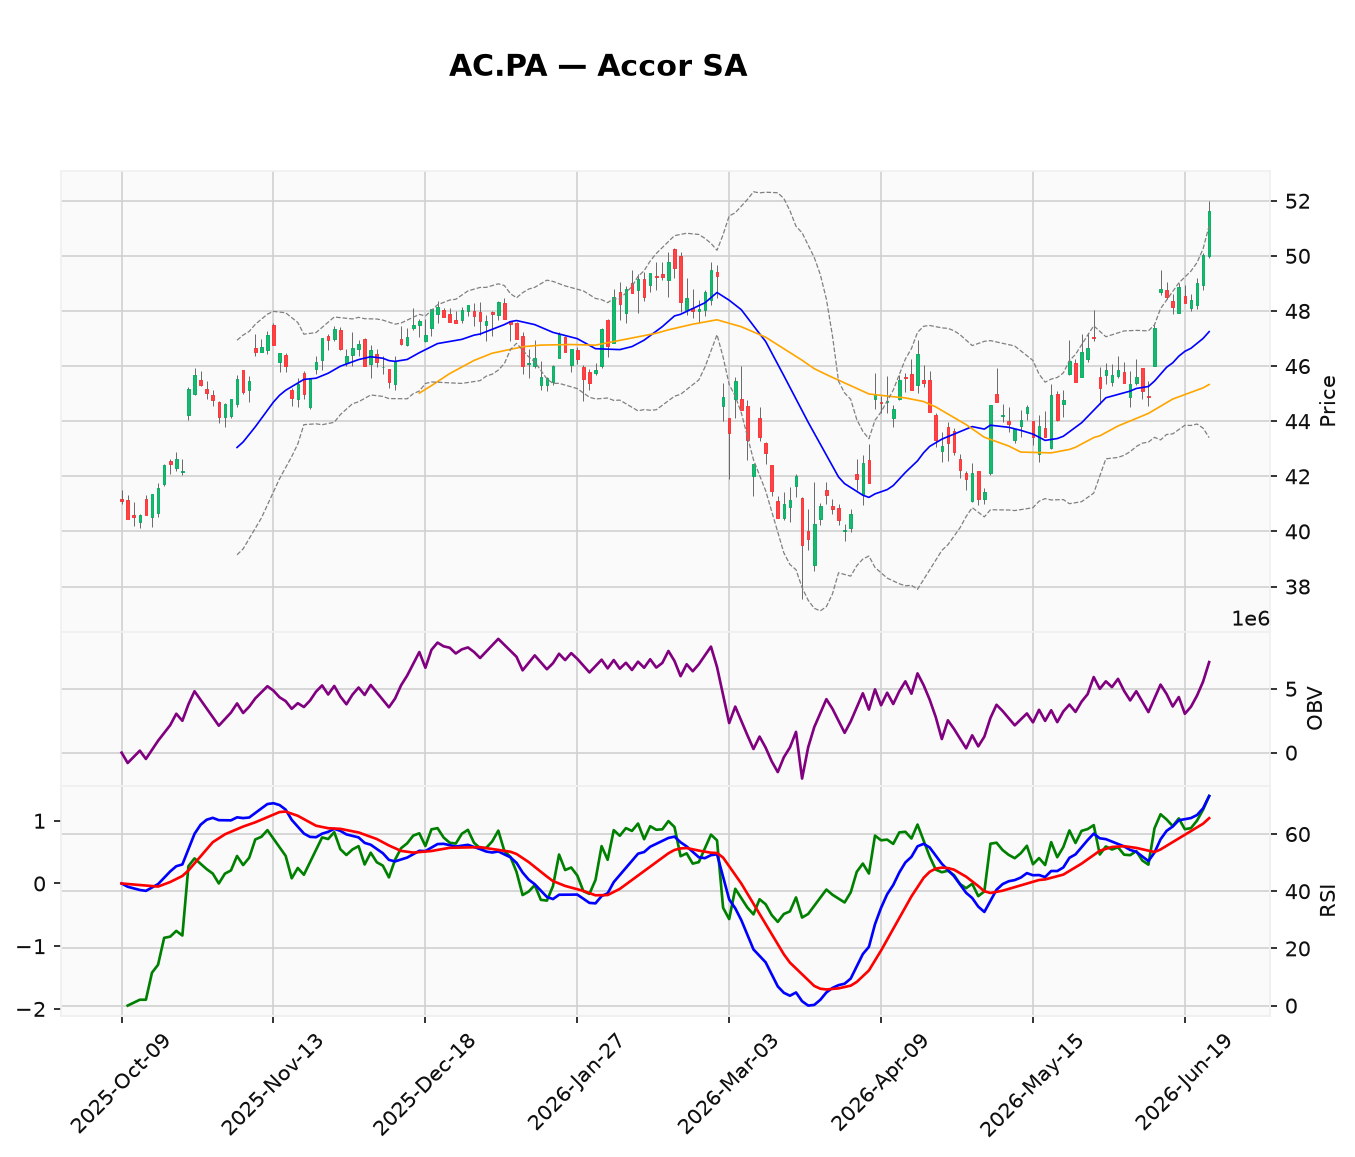
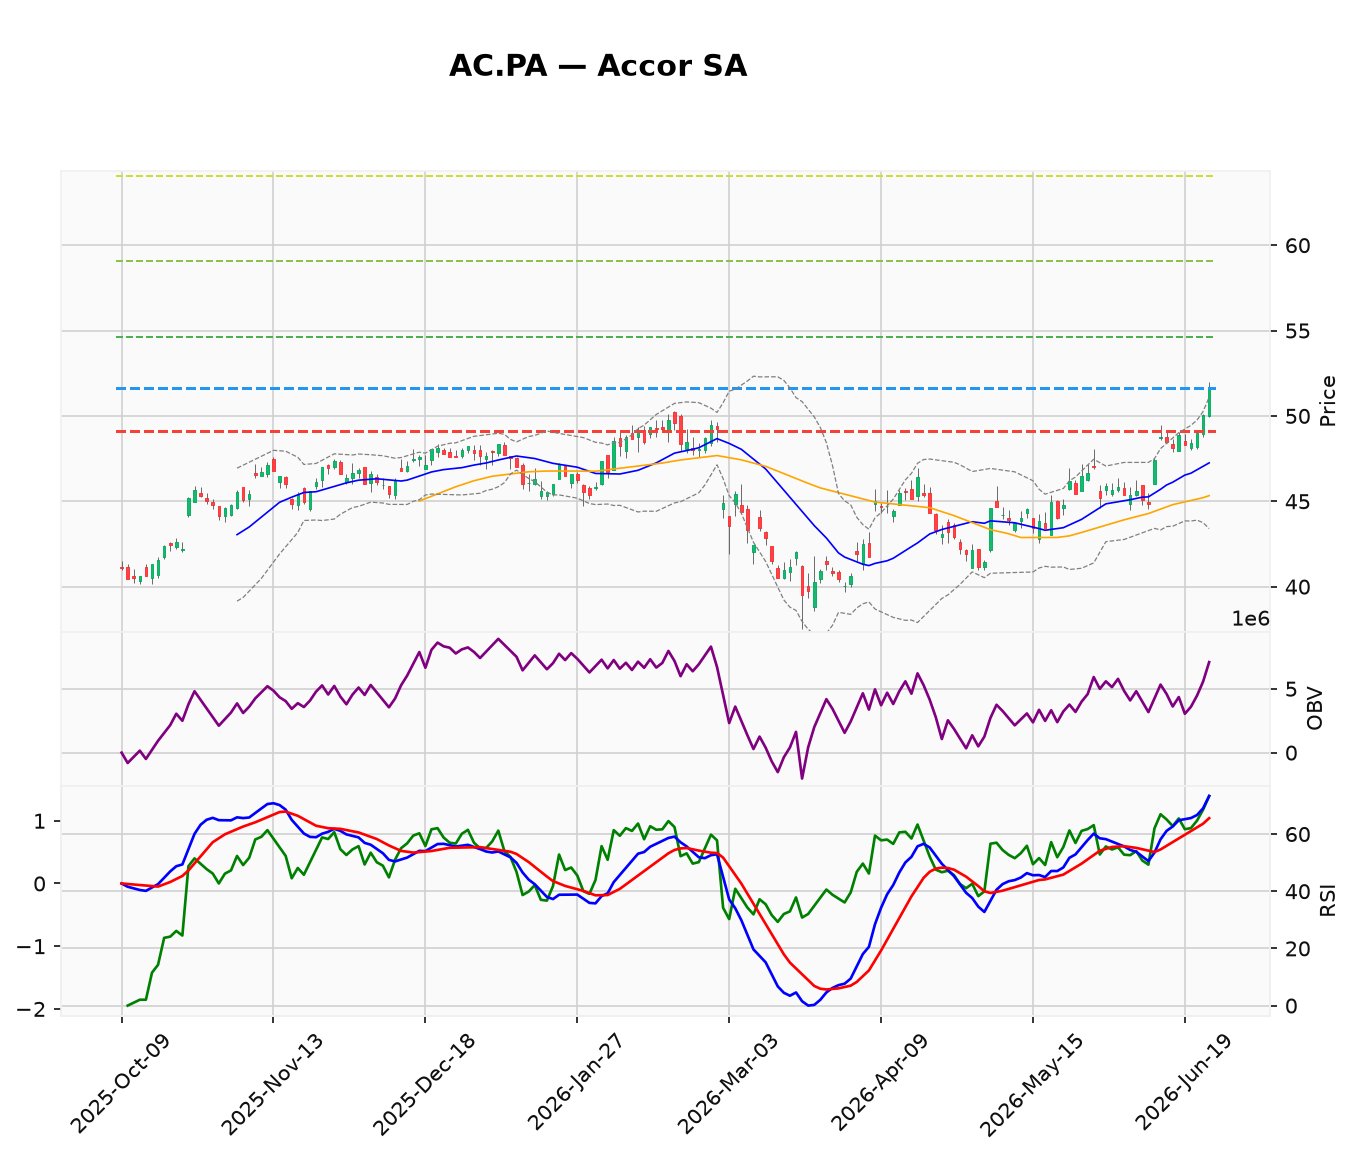
feat: charts show Entry/Stop/T1/T2/T3 target lines with y-axis expansion
Entry (blue), Stop (red), T1 (green), T2 (light green), T3 (yellow)
horizontal lines drawn on each chart. Y-axis auto-expands to fit all
target levels. Levels parsed from PORTFOLIO.txt operative cards.

Claude-Session: https://claude.ai/code/session_01EphBDX2QWi4j42nsyUuPhC

diff --git a/charts.py b/charts.py
@@ -8,7 +8,7 @@ from indicators import rsi_wilder, macd
 from volume_tools import obv, validate_volume
 
 
-def make_chart(df: pd.DataFrame, ticker: str, out_dir="charts", title=None):
+def make_chart(df: pd.DataFrame, ticker: str, out_dir="charts", title=None, levels=None):
     os.makedirs(out_dir, exist_ok=True)
     df = df.copy()
     df.columns = [c.capitalize() for c in df.columns]
@@ -32,10 +32,37 @@ def make_chart(df: pd.DataFrame, ticker: str, out_dir="charts", title=None):
     if vol_ok:
         df["OBV"] = obv(df["Close"], df["Volume"])
         aps.append(mpf.make_addplot(df["OBV"], panel=1, color="purple", ylabel="OBV"))
+
+    extra = {}
+    if levels:
+        vals, colors, widths = [], [], []
+        _lvl_style = {
+            "entry": ("#2196F3", 1.2),
+            "stop":  ("#F44336", 1.2),
+            "t1":    ("#4CAF50", 0.9),
+            "t2":    ("#8BC34A", 0.9),
+            "t3":    ("#CDDC39", 0.9),
+        }
+        for k in ("entry", "stop", "t1", "t2", "t3"):
+            v = levels.get(k)
+            if v is not None:
+                vals.append(v)
+                c, w = _lvl_style[k]
+                colors.append(c)
+                widths.append(w)
+        if vals:
+            extra["hlines"] = dict(hlines=vals, colors=colors, linewidths=widths, linestyle="--")
+            data_lo = float(df["Low"].min())
+            data_hi = float(df["High"].max())
+            lo = min(data_lo, min(vals)) * 0.995
+            hi = max(data_hi, max(vals)) * 1.005
+            extra["ylim"] = (lo, hi)
+
     out_png = os.path.join(out_dir, f"{ticker.replace('.', '_')}.png")
     mpf.plot(df, type="candle", style="yahoo", addplot=aps, volume=False,
              panel_ratios=(6, 2, 3), figscale=1.4, title=f"\n{title or ticker}",
-             savefig=dict(fname=out_png, dpi=150, bbox_inches="tight"))
+             savefig=dict(fname=out_png, dpi=150, bbox_inches="tight"),
+             **extra)
     print(f"[charts] salvato {out_png}")
     return out_png
 
@@ -47,7 +74,7 @@ def _load_local(px_path="data/mib_data.csv"):
     return px
 
 
-def chart_ticker(ticker, lookback=180, px=None, px_path="data/mib_data.csv", title=None):
+def chart_ticker(ticker, lookback=180, px=None, px_path="data/mib_data.csv", title=None, levels=None):
     """Grafico di un ticker dai dati LOCALI. Titolo con nome azienda se disponibile."""
     if px is None:
         px = _load_local(px_path)
@@ -63,14 +90,36 @@ def chart_ticker(ticker, lookback=180, px=None, px_path="data/mib_data.csv", tit
             title = f"{ticker} — {nm}" if nm and nm != ticker else ticker
         except Exception:
             title = ticker
-    return make_chart(g, ticker, title=title)
+    return make_chart(g, ticker, title=title, levels=levels)
+
+
+def _parse_levels(txt):
+    """Estrae entry/stop/T1/T2/T3 per ciascun ticker dalle schede operative."""
+    import re
+    levels = {}
+    cur = None
+    for line in txt.splitlines():
+        tm = re.match(r'^\s*([A-Z0-9]+\.?[A-Z]{0,3})\s*\|\s*Score:', line)
+        if tm:
+            cur = tm.group(1)
+            levels.setdefault(cur, {})
+        if cur is None:
+            continue
+        em = re.search(r'Entry:\s*([\d.]+)\s+Stop:\s*([\d.]+)', line)
+        if em:
+            levels[cur]["entry"] = float(em.group(1))
+            levels[cur]["stop"] = float(em.group(2))
+        for i, key in enumerate(["t1", "t2", "t3"], 1):
+            m = re.match(rf'^\s*Target {i}:\s*([\d.]+)', line)
+            if m:
+                levels[cur][key] = float(m.group(1))
+    return {tk: d for tk, d in levels.items() if d}
 
 
 def charts_for_portfolio(portfolio_path="data/PORTFOLIO.txt", lookback=180):
     """Grafica i SOLI titoli selezionati nel piano operativo (PORTFOLIO.txt), dai dati locali."""
     import re
     txt = open(portfolio_path).read()
-    # ticker dalle schede operative: 'TICK | Score: ... | CONFIDENZA: ...'
     picks = re.findall(r'^\s*([A-Z0-9]+\.?[A-Z]{0,3})\s*\|\s*Score:', txt, re.M)
     seen, ordered = set(), []
     for t in picks:
@@ -79,11 +128,12 @@ def charts_for_portfolio(portfolio_path="data/PORTFOLIO.txt", lookback=180):
     if not ordered:
         print("[charts] nessun titolo selezionato in", portfolio_path)
         return []
+    all_levels = _parse_levels(txt)
     px = _load_local()
     out = []
     for tk in ordered:
         try:
-            p = chart_ticker(tk, lookback=lookback, px=px)
+            p = chart_ticker(tk, lookback=lookback, px=px, levels=all_levels.get(tk))
             if p:
                 out.append(p)
         except Exception as e: